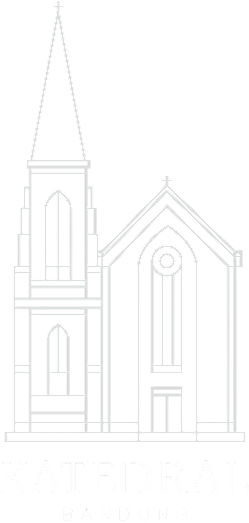
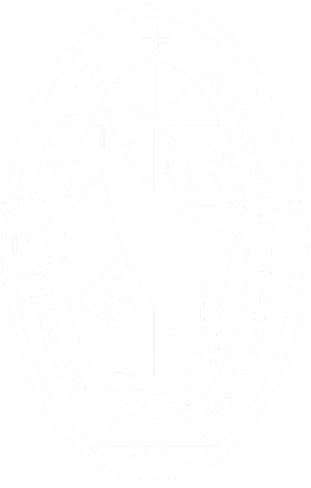
Styling edits

diff --git a/public/script.js b/public/script.js
@@ -101,16 +101,19 @@ async function handleLogin() {
         setTimeout(() => {
           const loginContainer = document.getElementById('login-container');
           const loginFooter = document.getElementById('login-footer');
+          const loginHeader = document.getElementById('login-header');
 
           // 3. Animate login screen out
           loginContainer.style.animation = 'fadeOutDown 0.4s ease-in forwards';
           loginFooter.style.animation = 'fadeOutDown 0.4s ease-in forwards';
+          if (loginHeader) loginHeader.style.animation = 'fadeOutDown 0.4s ease-in forwards';
 
           // 4. After fade out, hide it and show scanner UI
           setTimeout(() => {
             sessionStorage.setItem('authToken', data.token); // Store token
             loginContainer.style.display = 'none';
             loginFooter.style.display = 'none';
+            if (loginHeader) loginHeader.style.display = 'none';
             loginLoader.style.display = 'none'; // Hide loader
             document.getElementById('scanner-ui').style.display = 'flex';
             initializeApp(); // Load the main app
@@ -286,6 +289,8 @@ async function initializeApp() {
 window.onload = () => {
   if (sessionStorage.getItem('authToken')) {
       document.getElementById('login-container').style.display = 'none';
+      const loginHeader = document.getElementById('login-header');
+      if (loginHeader) loginHeader.style.display = 'none';
       document.getElementById('scanner-ui').style.display = 'flex';
       document.getElementById('login-footer').style.display = 'none';
       initializeApp();

diff --git a/public/index.html b/public/index.html
@@ -24,10 +24,10 @@
       <div class="spinner"></div>
     </div>
 
-    <div id="login-header" style="position: fixed; top: 40px; left: 0; width: 100%; display: flex; align-items: center; justify-content: center; z-index: 1; pointer-events: none;">
-      <img src="pewartaan_invert.png" alt="Logo" style="height: 60px; width: auto; margin-right: 15px;">
-      <div style="font-family: 'Inter', sans-serif; text-align: left; font-size: 0.75rem; color: #ddd; line-height: 1.2; text-shadow: 0 2px 4px rgba(0,0,0,0.8);">
-        <div style="font-weight: bold;">Subseksi Katekumen Dewasa</div>
+    <div id="login-header">
+      <img src="pewartaan_invert.png" alt="Logo">
+      <div class="login-header-text">
+        <div>Subseksi Katekumen Dewasa</div>
         <div>Bidang Pewartaan</div>
         <div>Paroki St. Petrus - Katedral</div>
         <div>Keuskupan Bandung</div>
@@ -100,7 +100,7 @@
     </div>
 
     <div style="position: fixed; bottom: 40px; left: 0; width: 100%; text-align: center; z-index: 1; pointer-events: none;">
-      <img src="katedral_invert.png" alt="Logo" style="height: 80px; width: auto;">
+      <img src="katedral_invert.png" alt="Logo" style="height: 85px; width: auto;">
     </div>
 
     <script src="script.js"></script>

diff --git a/public/style.css b/public/style.css
@@ -120,6 +120,34 @@ h2 {
 .header-text h1 { text-align: left; margin: 0 0 4px 0; }
 .header-text h2 { text-align: left; padding: 0; }
 
+/* --- FIXED LOGIN HEADER --- */
+#login-header {
+  position: fixed;
+  top: 50px;
+  left: 0;
+  width: 100%;
+  display: flex;
+  align-items: center;
+  justify-content: center;
+  z-index: 1;
+  pointer-events: none;
+}
+#login-header img {
+  height: 65px;
+  width: auto;
+  margin-right: 15px;
+}
+.login-header-text {
+  text-align: left;
+  font-size: 0.8rem;
+  color: #ddd;
+  line-height: 1.2;
+  text-shadow: 0 2px 4px rgba(0, 0, 0, 0.8);
+}
+.login-header-text div:first-child {
+  font-weight: bold;
+}
+
 /* --- LOGIN INPUT WRAPPER --- */
 .input-wrapper {
   position: relative;
